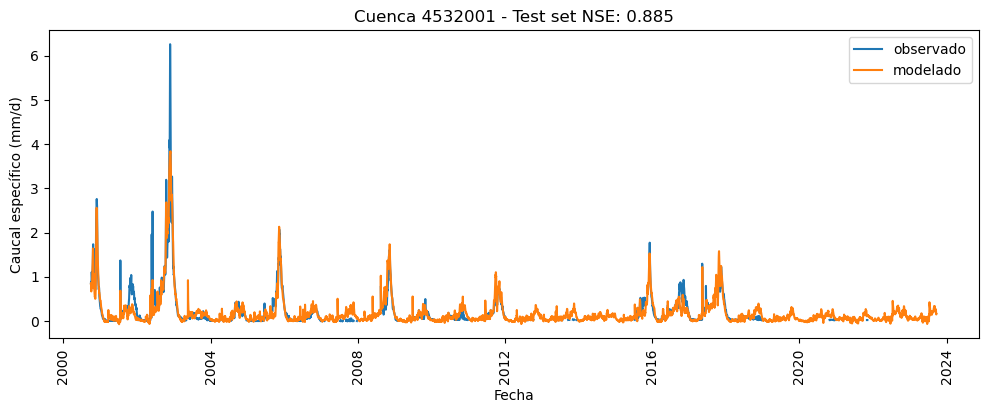
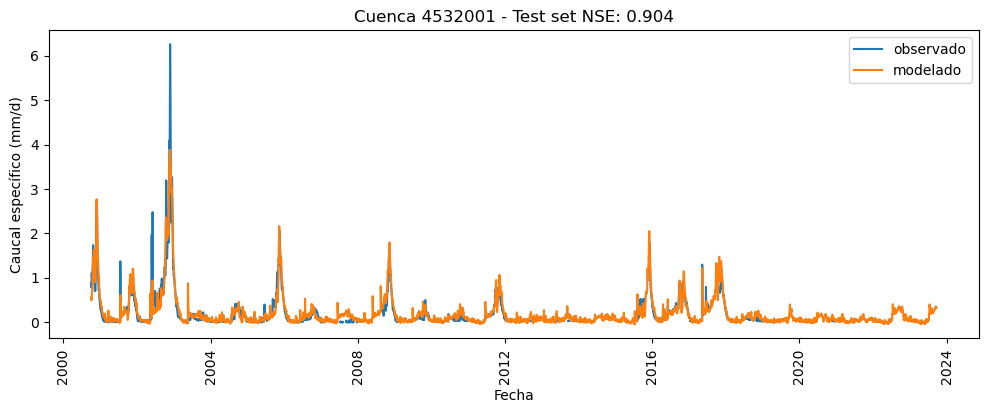
add: forecast no pressure, no dot

diff --git a/src/LSTM_RR_model.py b/src/LSTM_RR_model.py
@@ -48,10 +48,9 @@ def load_forcing(basin: str) -> Tuple[pd.DataFrame, int]:
     Tmin=loadDf('tminERA5_forecast.csv').loc[idx]
     sca=loadDf('SCA_basin_79_23_forecast.csv').loc[idx]
     albedo=loadDf('SAlbedo_basin_79_23_forecast.csv').loc[idx]
-    pres=loadDf('SfPress_basin_79_23_forecast.csv').loc[idx]
-    df=pd.concat([PET,PP,Tmax,Tmin,swe,sca,albedo,pres],axis=1)
+    df=pd.concat([PET,PP,Tmax,Tmin,swe,sca,albedo],axis=1)
     df.columns=['pet(mm/d)','pp(mm/d)','tmax(C)','tmin(C)','swe','sca',
-                'alb','press']
+                'alb']
 
     # load area from header in m2
     dfArea=pd.read_csv(os.path.join(ROOT,'catchment_attributes.csv'),index_col=0)
@@ -175,8 +174,7 @@ class CamelsTXT(Dataset):
                       df['tmin(C)'].values,
                       df['swe'].values,
                       df['sca'].values,
-                      df['alb'].values,
-                      df['press'].values]).T
+                      df['alb'].values]).T
         y = np.array([df['QObs(mm/d)'].values]).T
 
         # normalize data, reshape for LSTM training and remove invalid samples
@@ -219,16 +217,14 @@ class CamelsTXT(Dataset):
                               self.means['tmin(C)'],
                               self.means['swe'],
                               self.means['sca'],
-                              self.means['alb'],
-                              self.means['press']])
+                              self.means['alb']])
             stds = np.array([self.stds['pet(mm/d)'],
                              self.stds['pp(mm/d)'],
                              self.stds['tmax(C)'],
                              self.stds['tmin(C)'],
                              self.stds['swe'],
                              self.stds['sca'],
-                             self.stds['alb'],
-                             self.stds['press']])
+                             self.stds['alb']])
             feature = (feature - means) / stds
         elif variable == 'output':
             feature = ((feature - self.means["QObs(mm/d)"]) /
@@ -254,16 +250,14 @@ class CamelsTXT(Dataset):
                               self.means['tmin(C)'],
                               self.means['swe'],
                               self.means['sca'],
-                              self.means['alb'],
-                              self.means('press')])
+                              self.means['alb']])
             stds = np.array([self.stds['pet(mm/d)'],
                              self.stds['pp(mm/d)'],
                              self.stds['tmax(C)'],
                              self.stds['tmin(C)'],
                              self.stds['swe'],
                              self.stds['sca'],
-                             self.stds['alb'].
-                             self.stds['press']])
+                             self.stds['alb']])
             feature = feature * stds + means
         elif variable == 'output':
             feature = (feature * self.stds["QObs(mm/d)"] +
@@ -294,7 +288,7 @@ class Model(nn.Module):
         self.dropout_rate = dropout_rate
         
         # create required layer
-        self.lstm = nn.LSTM(input_size=8, hidden_size=self.hidden_size, 
+        self.lstm = nn.LSTM(input_size=7, hidden_size=self.hidden_size, 
                             num_layers=1, bias=True, batch_first=True)
         self.dropout = nn.Dropout(p=self.dropout_rate)
         self.fc = nn.Linear(in_features=self.hidden_size, out_features=1)
@@ -436,7 +430,7 @@ def main():
     optimizer = torch.optim.Adam(model.parameters(), lr=learning_rate)
     loss_func = nn.MSELoss()
     
-    n_epochs = 100 # Number of training epochs
+    n_epochs = 50 # Number of training epochs
 
     for i in range(n_epochs):
         train_epoch(model, optimizer, tr_loader, loss_func, i+1)
